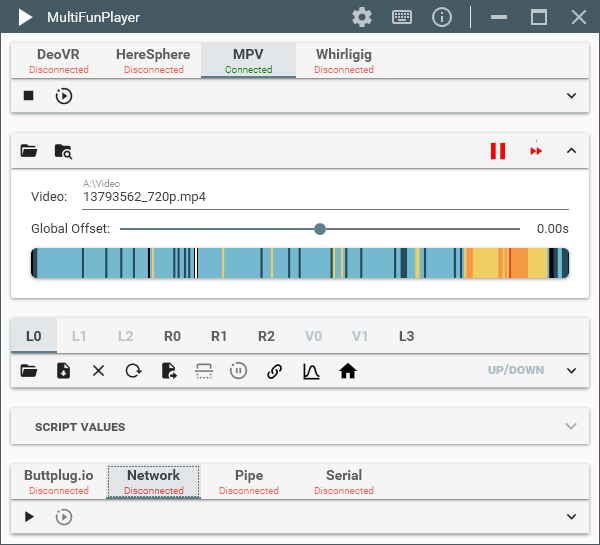
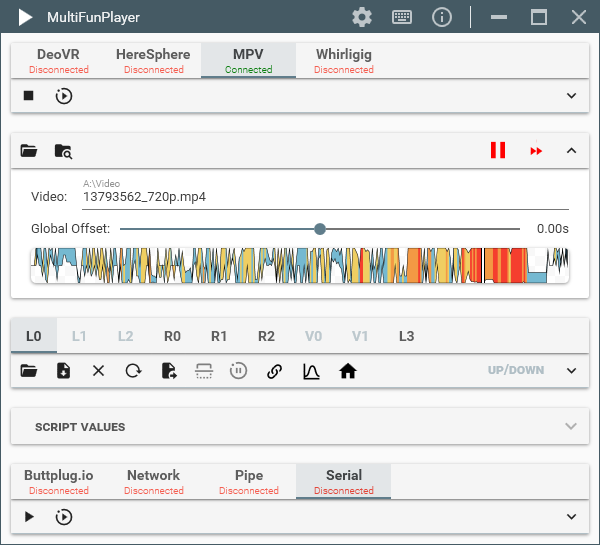
Update README.md

diff --git a/README.md b/README.md
@@ -17,7 +17,8 @@ The player's main feature is the ability to play multiple funscripts at the same
 * Supports [buttplug.io](https://buttplug.io), network TCP/UDP, namedpipes and serial output
 * Supports TCode v0.2 and TCode v0.3 devices
 * Auto detection and connection to any supported video player and output
-* Bind keyboard/mouse/gamepad input to almost any action (900+ available actions)
+* Bind keyboard/mouse/gamepad input to almost any customizable action (100+ available actions)
+* Seek and play/pause video from MultiFunPlayer
 * Supports multiple concurrent outputs
 * Real time script smoothing using pchip or makima interpolation
 * Auto-home feature which when video is paused moves axis to its default value after some delay
@@ -26,7 +27,7 @@ The player's main feature is the ability to play multiple funscripts at the same
 * Script libraries to organize funscripts in different folders and load funscripts not located next to the video file
 * Ability to link unscripted axis to a different one with optional random motion
 * Smart limit on R1 (roll) and R2 (pitch) axes to limit values based on L0 (stroke) height
-* Multi funscript heatmap
+* Multi funscript heatmap with stroke length visualization
 * True portable app, no files are created/edited outside of the executable folder
 
 # How To
